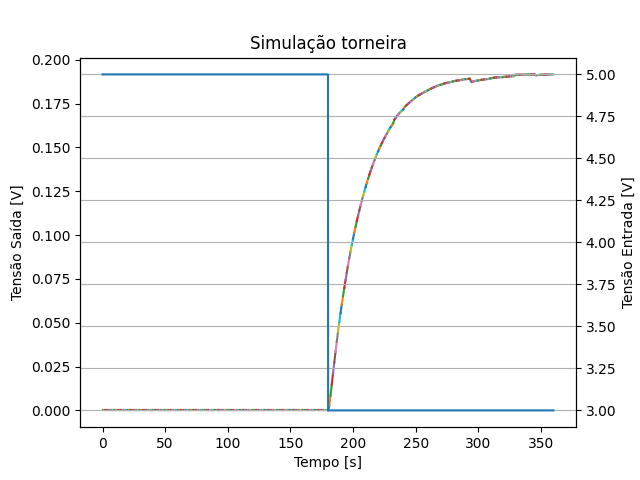
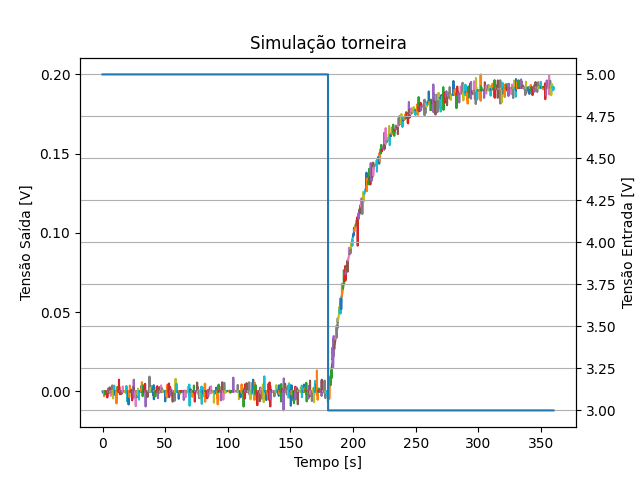
fix: adjust reward function

diff --git a/ElectricTapEnv.py b/ElectricTapEnv.py
@@ -22,7 +22,6 @@ MAX_ERROR = (MAX_SETPOINT - MIN_SETPOINT)/2
 MIN_CALCULATED_REWARD = -25
 MAX_CALCULATED_REWARD = 25
 
-MIN_OVERALL_REWARD = -100
 MAX_OVERALL_REWARD = 100
 
 MIN_CONTROL_ACTION = 0
@@ -39,6 +38,8 @@ MAX_KI = 10
 MIN_KD = -10
 MAX_KD = 10
 
+NOISE_GAMMA = 1
+
 class ElectricTapEnv(Env):
     def __init__(self):
         super().__init__()
@@ -54,19 +55,8 @@ class ElectricTapEnv(Env):
         self.observation_space = Box(np.array(lower_limits), np.array(upper_limits), shape=(8,), dtype=np.float32)
         self.reward_range = (-25,25)
 
-        
-        self.internal_state = {
-            "KP": 1,
-            "KI": 0,
-            "KD": 0,
-            "integral_error": 0,
-            "pv_arr": [], 
-            "control_action_arr": [],
-            "setpoint": random.uniform(MIN_SETPOINT, MAX_SETPOINT),
-            "noise_power": 1,
-            "iterations_counter": 0,
-            "max_iterations": 500
-        }
+        # initialize internal state
+        self.reset()
 
         # get random initial state
         self.__set_initial_control_action()
@@ -74,12 +64,10 @@ class ElectricTapEnv(Env):
         self.__set_setpoint()
     
     def step(self, action):
-        print(f"step with action: {action}")
         self.__increment_counter()
         self.__take_action(action)
         self.__simulate_plant()
         
-        # simulator.simulate()
         reward = self.__get_reward()
         done = self.__get_is_done()
 
@@ -100,7 +88,7 @@ class ElectricTapEnv(Env):
             "pv_arr": [], 
             "control_action_arr": [],
             "setpoint": random.uniform(MIN_SETPOINT, MAX_SETPOINT),
-            "noise_power": 1,
+            "noise": 0,
             "iterations_counter": 0,
             "max_iterations": 500
         }
@@ -113,17 +101,14 @@ class ElectricTapEnv(Env):
 
     def __get_reward(self):
         error = self.internal_state["setpoint"] - self.internal_state["pv_arr"][-1]
-        print(f"error: {error}, setpoint: {self.internal_state['setpoint']}, pv: {self.internal_state['pv_arr'][-1]}")
 
-        # error off thresholds (insignificant or giant error)
         if(abs(error)<MIN_ERROR): return MAX_OVERALL_REWARD # maximum reward when minimum error
-        if(abs(error)>MAX_ERROR): return MIN_OVERALL_REWARD # minimum reward when maximum error
 
-        delta_reward = MAX_CALCULATED_REWARD-MIN_CALCULATED_REWARD
-        delta_error = (MAX_ERROR*MAX_ERROR - MIN_ERROR*MIN_ERROR)/self.internal_state["noise_power"]
+        reward = -(error*error) + NOISE_GAMMA*self.internal_state["noise"]*self.internal_state["noise"]
 
-        quadratic_error_param = (error*error)/self.internal_state["noise_power"]
-        reward = MIN_CALCULATED_REWARD + delta_reward/delta_error * quadratic_error_param
+        if(np.isnan(reward) or not np.isreal(reward)):
+            print(f"Invalid reward value: {reward}. Returning 0")
+            return 0
 
         return reward
 
@@ -192,10 +177,12 @@ class ElectricTapEnv(Env):
         x1_ponto = (x1 - self.internal_state["pv_arr"][-2])/self.simulator.Ts
         y0 = [x1, x1_ponto]
         simulation_result = self.simulator.simulate(y0, self.internal_state["control_action_arr"][-1], control_action, SIMULATION_STEP_PERIOD_SEC)
+        simulation_noise = self.simulator.generate_noise(len(simulation_result[:,]))
 
         pv = simulation_result[-1,0]
 
         self.internal_state["pv_arr"].append(pv)
+        self.internal_state["noise"] = simulation_noise[-1]
 
         return pv
     
@@ -212,4 +199,29 @@ class ElectricTapEnv(Env):
         ki = self.internal_state["KI"]
         kd = self.internal_state["KD"]
 
-        return np.array([pv, mv, error, error_integral, error_derivative, kp, ki, kd]).astype(np.float32)
+        try:
+            raw_output = np.array([pv, mv, error, error_integral, error_derivative, kp, ki, kd]).astype(np.float32)
+            output, replaced = self.__replace_if_invalid(raw_output)
+
+            if(replaced):
+                print(f"replacement needed for output: {raw_output}")
+
+            return output
+        except:
+            print(f"Overflow ocourred {[pv, mv, error, error_integral, error_derivative, kp, ki, kd]}")
+            return np.array([0, 0, MAX_ERROR, 0, 0, 0, 0, 0]).astype(np.float32)
+    
+    def __replace_if_invalid(self, input_values):
+        output_values = []
+        replaced = False
+        for val in input_values:
+            if not isinstance(val, np.float32):
+                val = np.float32(val)
+            
+            if not np.isreal(val) or np.isnan(val):
+                val = np.float32(0.0)
+                replaced = True
+
+            output_values.append(val)
+
+        return np.array(output_values), replaced

diff --git a/TapSimulator.py b/TapSimulator.py
@@ -28,7 +28,7 @@ class TapSimulator:
         noise_rate = 0.01
         for i in range(number_of_points):
             sample_has_noise = random.uniform(0,1) < noise_rate
-            sample_noise_value = random.uniform(-self.noiseVariance, self.noiseVariance) if sample_has_noise else 0
+            sample_noise_value = random.gauss(0, self.noiseVariance) if sample_has_noise else 0
             noise_vec.append(sample_noise_value)
 
         return noise_vec

diff --git a/ML.py b/ML.py
@@ -25,10 +25,10 @@ for episode in range(1, episodes+1):
     while not done:
         env.render()
         action = env.action_space.sample()
-        print(f"next step: f{action}")
+        #print(f"next step: f{action}")
         n_state, reward, done, truncated, info = env.step(action)
         score+=reward
-    print('Episode:{} Score:{}'.format(episode, score))
+    #print('Episode:{} Score:{}'.format(episode, score))
 env.close()
 
 # train the model
